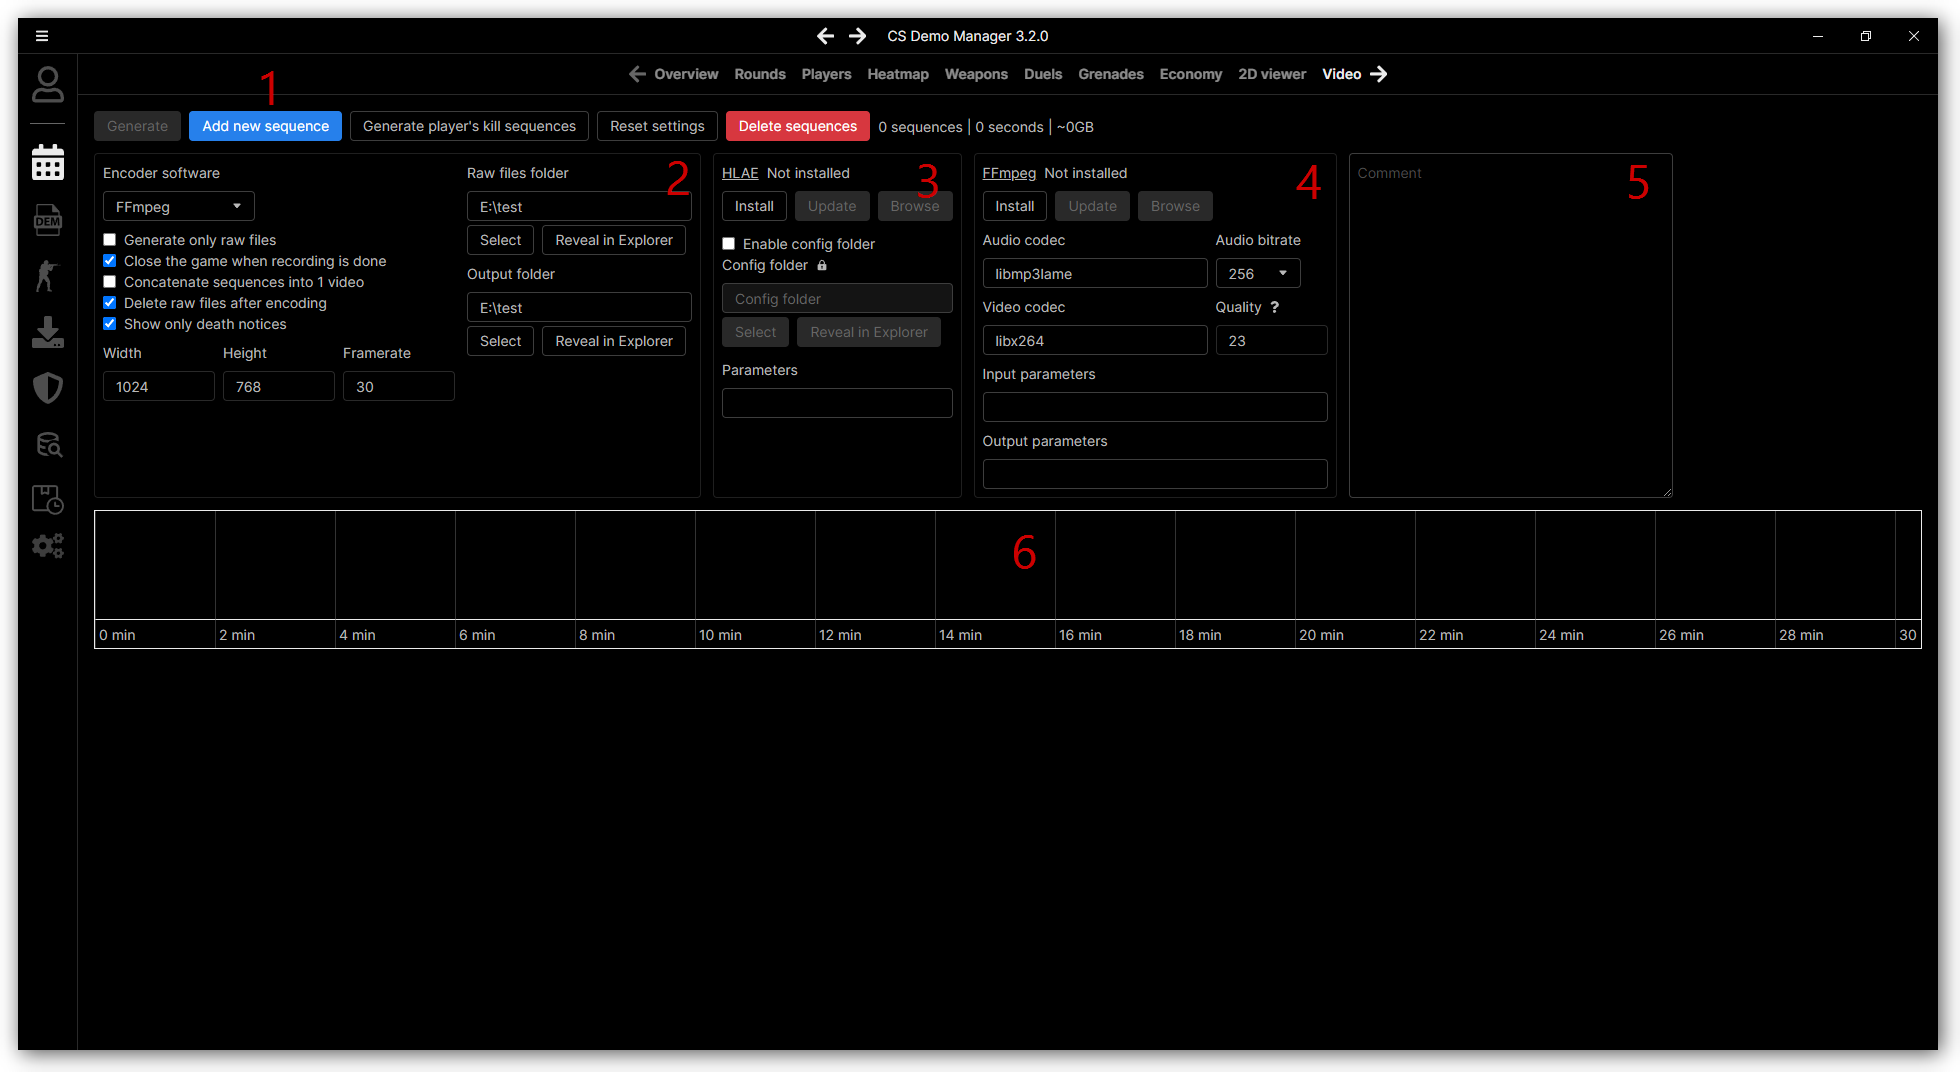
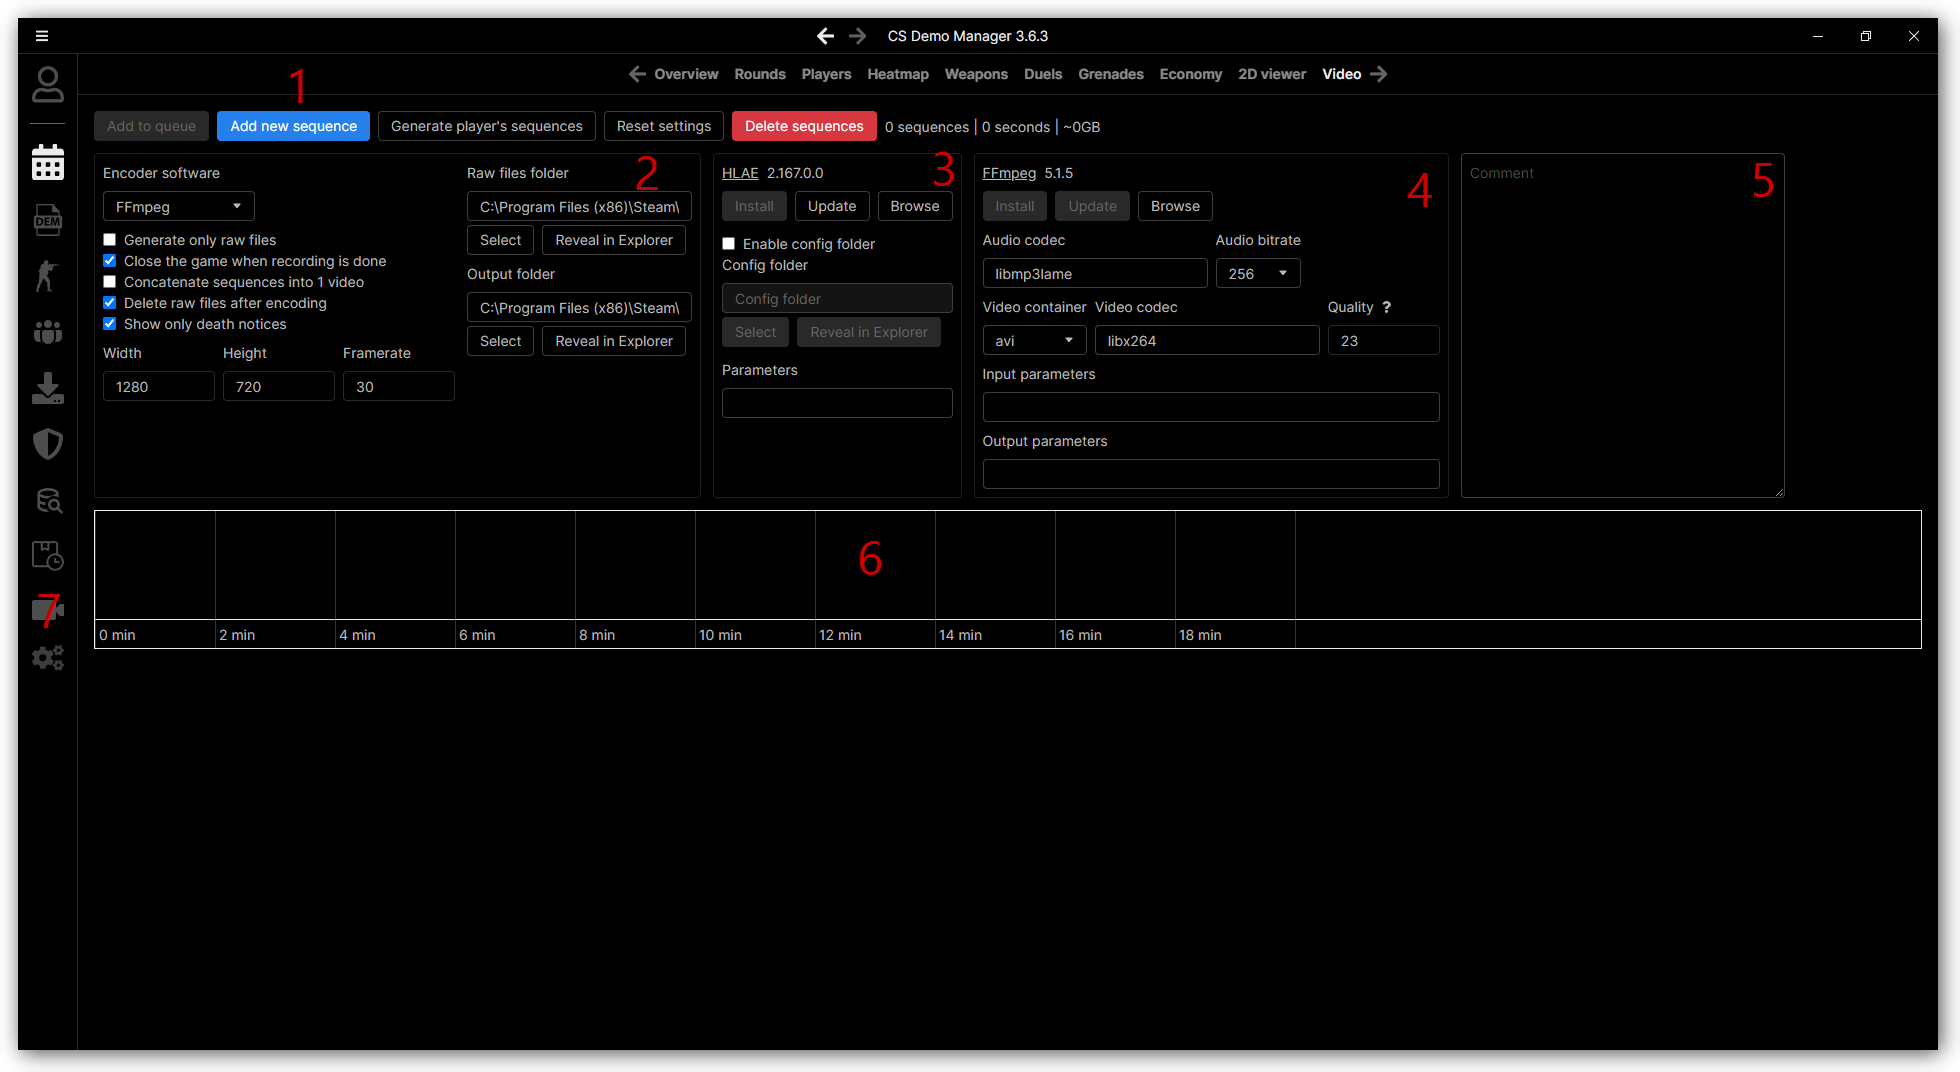
feat(video): update guide

diff --git a/docs/03-guides/06-video.md b/docs/03-guides/06-video.md
@@ -3,7 +3,8 @@ title: Video
 ---
 
 CS:DM allows you to generate videos and raw files (images and audio) from demos.  
-This feature is accessible by clicking on the **Video** tab from a match.
+This feature is accessible by clicking on the **Video** tab from a match.  
+Video jobs are added to a queue allowing you to schedule multiple videos to be generated one after the other.
 
 ## Compatibility
 
@@ -46,6 +47,12 @@ right-click to open a context menu.
 
 ![Timeline](/img/documentation/guides/video/timeline.gif)
 
+### Video ID
+
+Each video has a unique ID generated by the application and used to create a unique folder where the raw files and/or
+the video(s) will be saved.  
+These unique IDs prevent overwriting files when generating multiple videos.
+
 ## Generating video(s)
 
 To generate a video, go to the **Video** tab from a match.  
@@ -59,6 +66,7 @@ You will see the following window:
 4. Encoder software options.
 5. Match's comment.
 6. Sequences timeline.
+7. Video queue.
 
 ### Steps
 
@@ -69,7 +77,7 @@ The steps to generate a video are:
 3. Set the general options (optional).
 4. Set the HLAE options (Optional and Windows only).
 5. Set the encoder software options (optional).
-6. Click on the **Generate** button and wait.
+6. Click on the **Add to queue** button to add the video to the queue and start the generation.
 
 ## Installing/Updating software
 
@@ -237,6 +245,7 @@ Set the video frame rate.
 ### Raw files folder
 
 Set the folder where the raw files will be saved.  
+The files will be located in a subfolder that has the video ID as the name.  
 The default location is the folder where the demo is located. If you change it, the application will remember and use it
 for the next recordings.
 
@@ -249,6 +258,7 @@ Ensure enough space on the game installation drive is available before starting 
 ### Output folder
 
 Set the folder where the video(s) will be saved.  
+The video(s) will be located in a subfolder that has the video ID as the name.  
 The default location is the folder where the demo is located. If you change it, the application will remember and use it
 for the next recordings.
 
@@ -311,13 +321,18 @@ Always check how much disk space is required before starting the recording, and 
 ![Disk space](/img/documentation/guides/video/disk-space.png)
 :::
 
-Once you have completed all the [steps](#steps), click the **Generate** button to start generation of the video(s).  
-It will start the game, record the sequences, and generate the video(s) from the raw files.
+Once you have completed all the [steps](#steps), click on **Add to queue** to add the video to the queue.  
+You will be redirected to the video queue page:  
+![Video queue](/img/documentation/guides/video/queue.png)
 
-Once done, you will see the following window:  
-![Video generation done](/img/documentation/guides/video/generation-done.png)
+It will automatically start the game, record the sequences, and generate the video(s) from the raw files until the queue
+is empty.  
+You can remove one or all videos from the queue, reveal the output folder...
 
-Click on the **Reveal output folder** button to open the folder where the video(s) have been generated.
+:::warning
+The raw files folder and output folder will be located in a subfolder named after the unique video ID and are created
+only when the in-game recording is done.
+:::
 
 ## Editing a sequence
 
